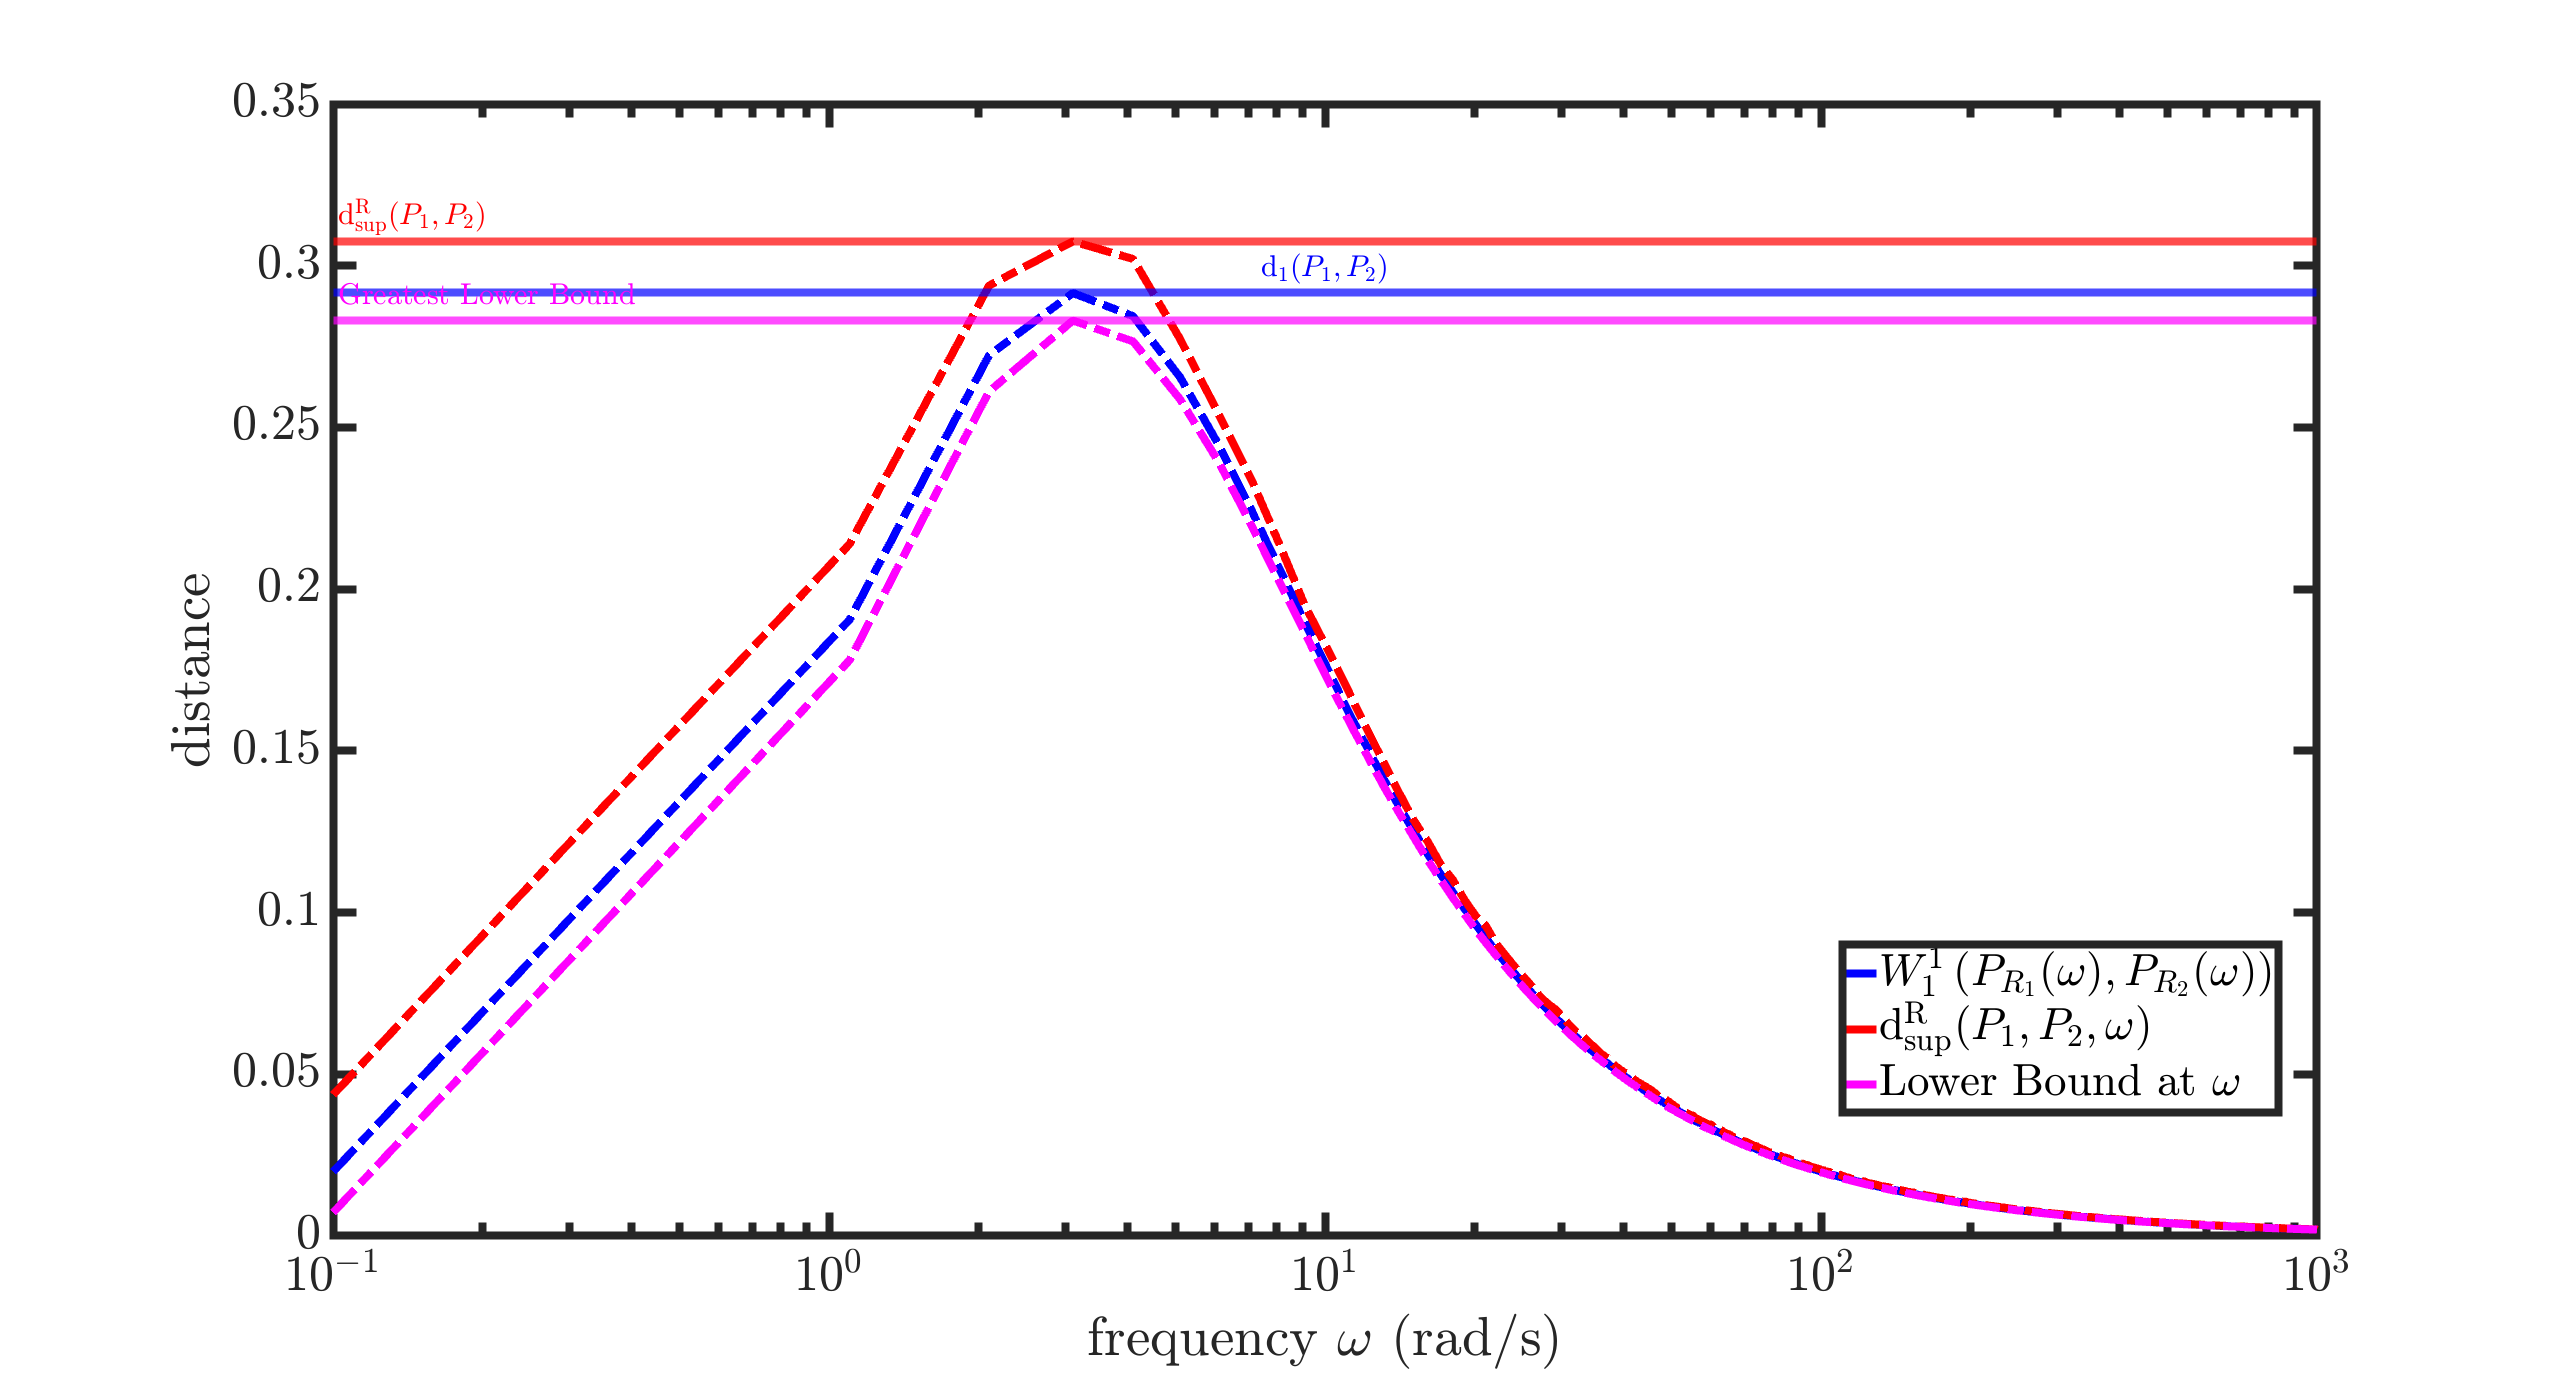
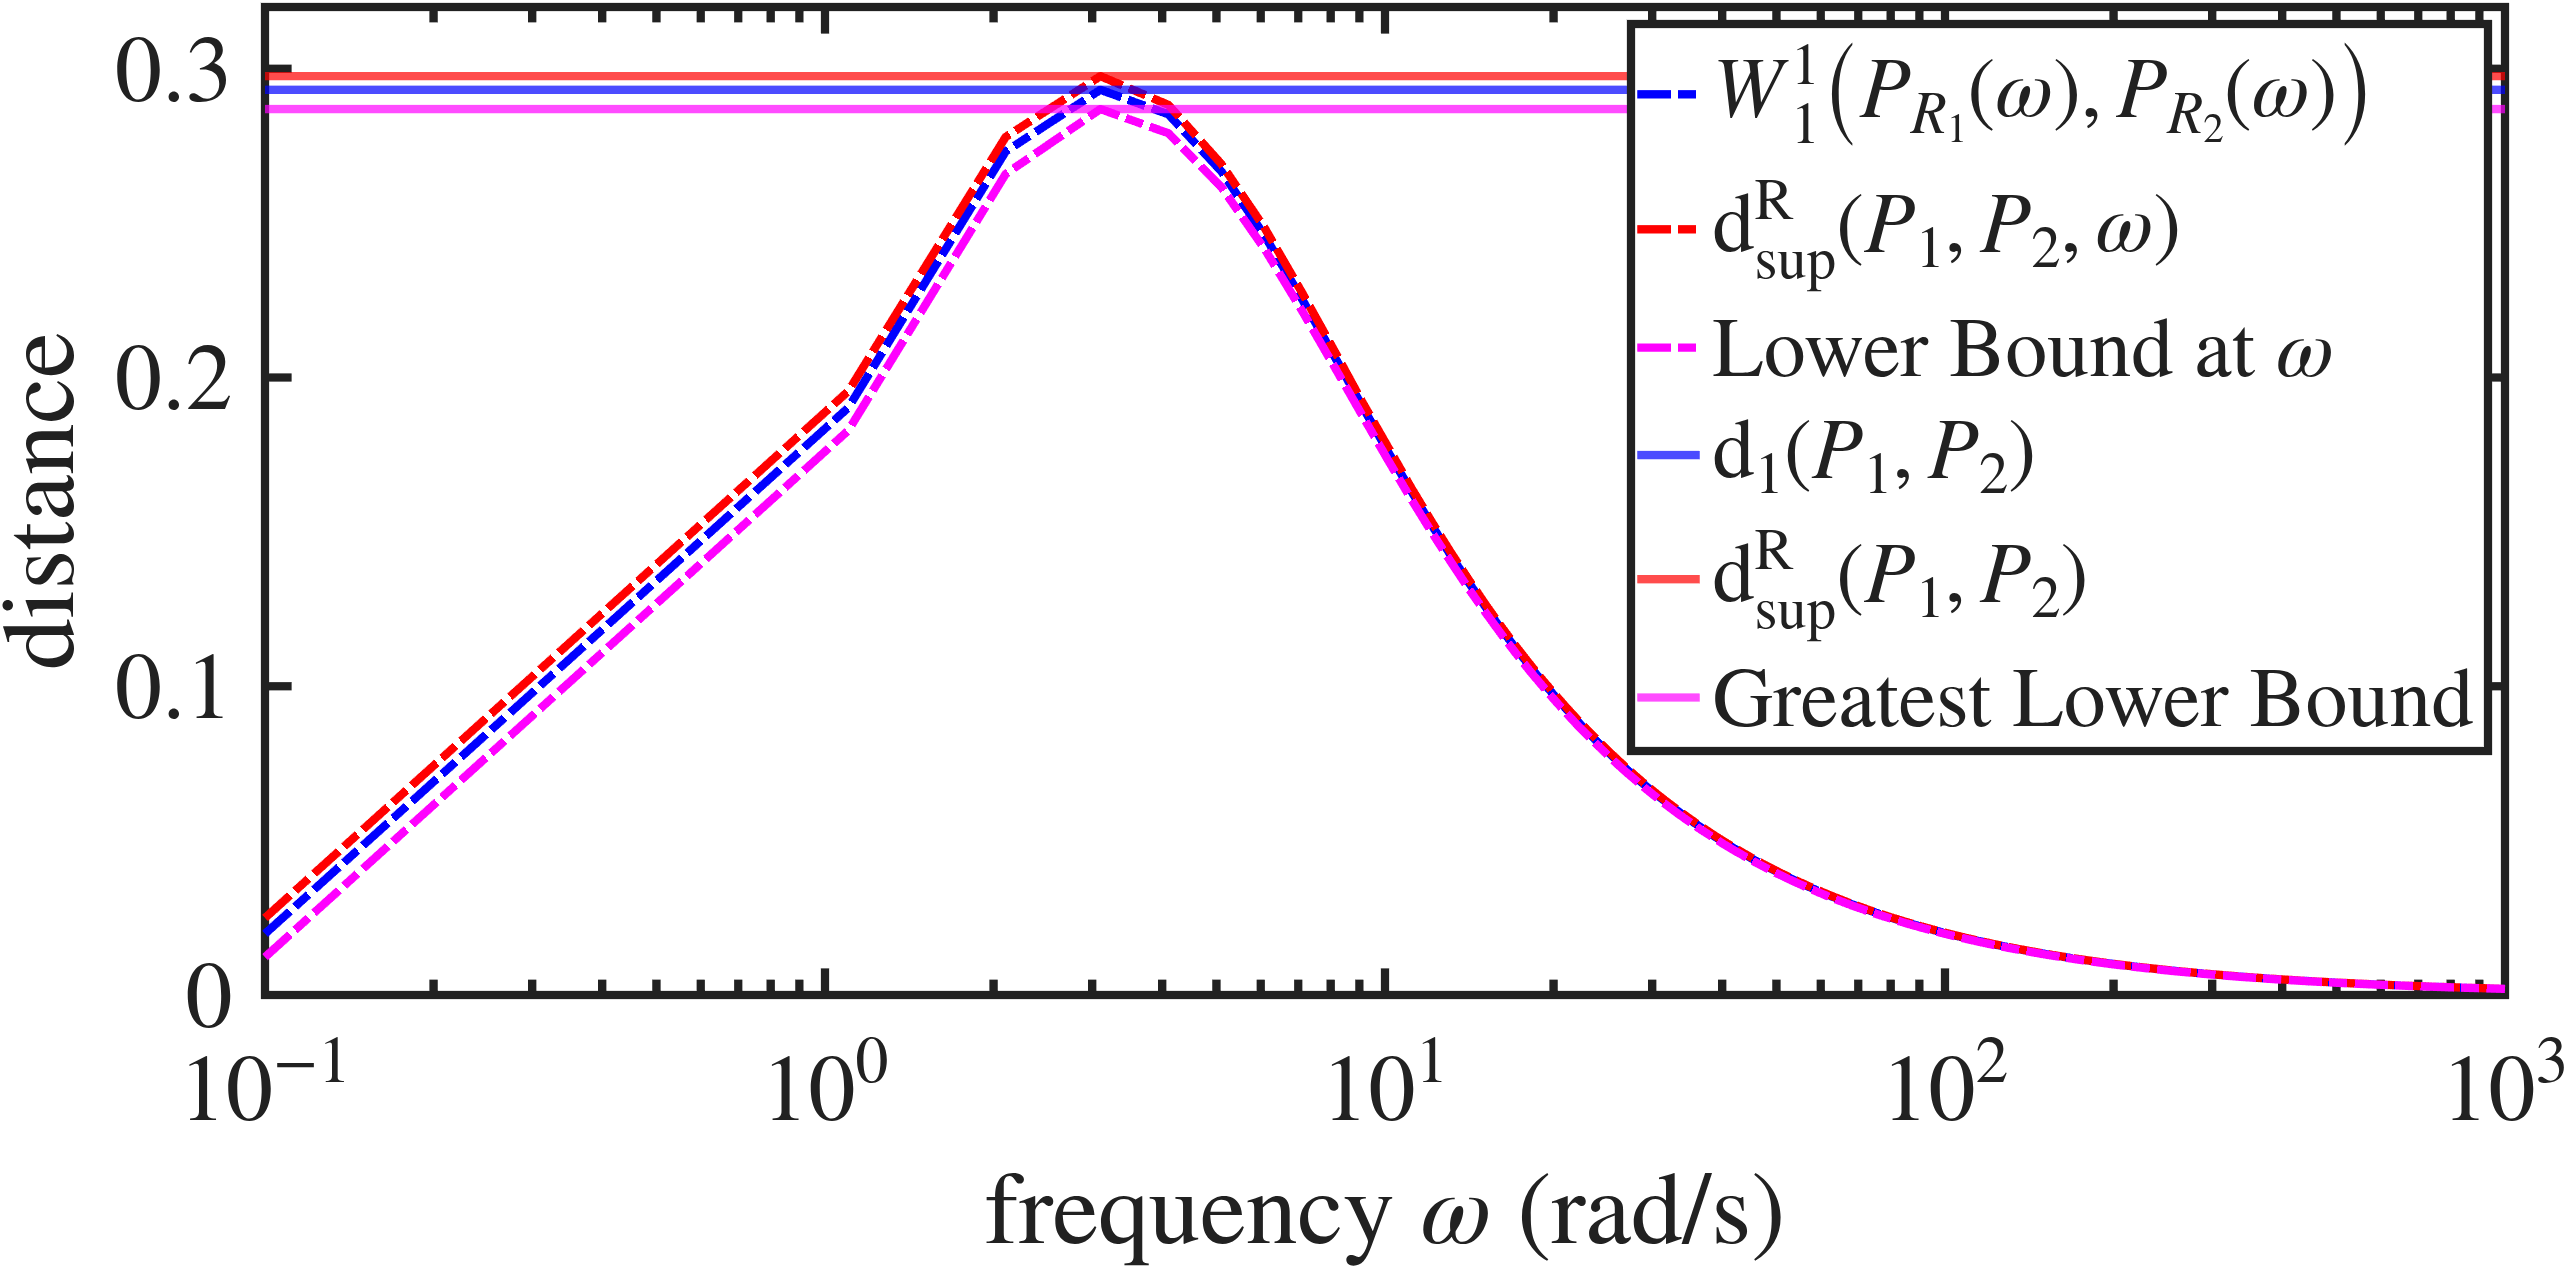
Add files via upload

diff --git a/frequencyDomainSimulation.m b/frequencyDomainSimulation.m
@@ -4,14 +4,14 @@
 % This code simulates to obtain distance between two linear stochastic
 % systems in the frequency domain setting
 %
-% Copyrights @ 2025
+% Copyrights @ 2026
 % 
 % Authors: Venkatraman Renganathan 
-%          Cranfield University, United Kingdom.
+%          IIT Hyderabad, India
 %
-% Email: v.renganathan@cranfield.ac.uk
+% Email: venkatraman@ai.iith.ac.in
 %
-% Date last updated: 22 August, 2025.
+% Date last updated: 25 July, 2026.
 %
 %%%%%%%%%%%%%%%%%%%%%%%%%%%%%%%%%%%%%%%%%%%%%%%%%%%%%%%%%%%%%%%%%%%%%%%%%%%
 %%%%%%%%%%%%%%%%%%%%%%%%%%%%%%%%%%%%%%%%%%%%%%%%%%%%%%%%%%%%%%%%%%%%%%%%%%%
@@ -52,8 +52,8 @@ perturbationFactor = 0.01;
 % Generate frequency response samples
 for i = 1:numSamples
     % Get a random complex perturbation for every frequency for both systems
-    ithSampleNoiseSystem1 = perturbationFactor * (randn(1, numFrequencies) + 1j * randn(1, numFrequencies));
-    ithSampleNoiseSystem2 = perturbationFactor * (randn(1, numFrequencies) + 1j * randn(1, numFrequencies));
+    ithSampleNoiseSystem1 = perturbationFactor * (rand(1, numFrequencies) + 1j * rand(1, numFrequencies));
+    ithSampleNoiseSystem2 = perturbationFactor * (rand(1, numFrequencies) + 1j * rand(1, numFrequencies));
     % Generate the ith sample at every frequency by combining the nominal  
     % response & the random perturbation
     P1Samples(i, :) = P1NominalResponses .* (1 + ithSampleNoiseSystem1);
@@ -155,24 +155,28 @@ slx1 = semilogx(Omega, type1WassersteinDistance, 'b-.'); hold on;
 slx2 = semilogx(Omega, upperBoundViaSupportDistance, 'r-.');
 slx3 = semilogx(Omega, triangleInequalityDistanceLowerBound, '-.');
 slx3.Color = 'magenta';
-yl1 = yline(max(type1WassersteinDistance),'b-','$\mathrm{d}_{1}(P_1, P_2)$', 'Interpreter','latex');
-yl2 = yline(max(upperBoundViaSupportDistance),'r-','$\mathrm{d^{\mathrm{R}}_{sup}}(P_1, P_2)$', 'Interpreter','latex');
-yl3 = yline(max(triangleInequalityDistanceLowerBound),'m-','Greatest Lower Bound', 'Interpreter','latex');
+yl1 = yline(max(type1WassersteinDistance),'b-');
+yl2 = yline(max(upperBoundViaSupportDistance),'r-');
+yl3 = yline(max(triangleInequalityDistanceLowerBound),'m-');
+%yl1 = yline(max(type1WassersteinDistance),'b-','$\mathrm{d}_{1}(P_1, P_2)$', 'Interpreter','latex');
+%yl2 = yline(max(upperBoundViaSupportDistance),'r-','$\mathrm{d^{\mathrm{R}}_{sup}}(P_1, P_2)$', 'Interpreter','latex');
+%yl3 = yline(max(triangleInequalityDistanceLowerBound),'m-','Greatest Lower Bound', 'Interpreter','latex');
 yl1.LabelHorizontalAlignment = 'center';
 yl2.LabelHorizontalAlignment = 'left';
 yl3.LabelHorizontalAlignment = 'left';
-yl1.FontSize = 30;
-yl2.FontSize = 30;
-yl3.FontSize = 30;
-yl1.LineWidth = 8;
-yl2.LineWidth = 8;
-yl3.LineWidth = 8;
-xlabel('frequency $\omega$ (rad/s)');
-ylabel('distance');
-legend('$W^{1}_{1}\left(P_{R_{1}}(\omega), P_{R_{2}}(\omega)\right)$', '$\mathrm{d^{\mathrm{R}}_{sup}}(P_1, P_2, \omega)$', 'Lower Bound at $\omega$', 'Location','southeast');
+yl1.FontSize = 45;
+yl2.FontSize = 45;
+yl3.FontSize = 45;
+yl1.LineWidth = 4;
+yl2.LineWidth = 4;
+yl3.LineWidth = 4;
+xlabel('frequency $\omega$ (rad/s)', 'Interpreter','latex');
+ylabel('distance', 'Interpreter','latex');
+ylim([0, 0.32]);
+legend('$W^{1}_{1}\left(P_{R_{1}}(\omega), P_{R_{2}}(\omega)\right)$', '$\mathrm{d^{\mathrm{R}}_{sup}}(P_1, P_2, \omega)$', 'Lower Bound at $\omega$', '$\mathrm{d}_{1}(P_1, P_2)$', '$\mathrm{d^{\mathrm{R}}_{sup}}(P_1, P_2)$', 'Greatest Lower Bound', 'Location','northeast');
 a = findobj(gcf, 'type', 'axes');
 h = findobj(gcf, 'type', 'line');
-set(h, 'linewidth', 8);
-set(a, 'linewidth', 8);
-set(a, 'FontSize', 50);
+set(h, 'linewidth', 4);
+set(a, 'linewidth', 4);
+set(a, 'FontSize', 45);
 set(gca,'fontweight','bold');
